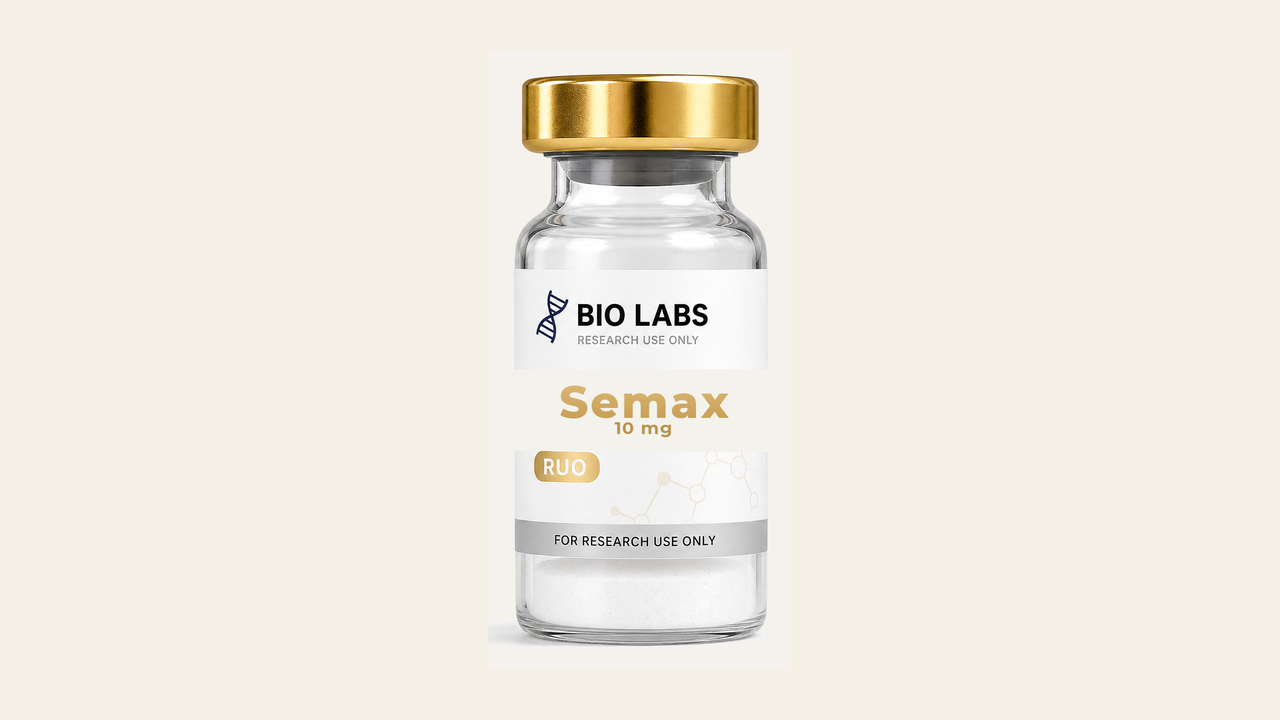
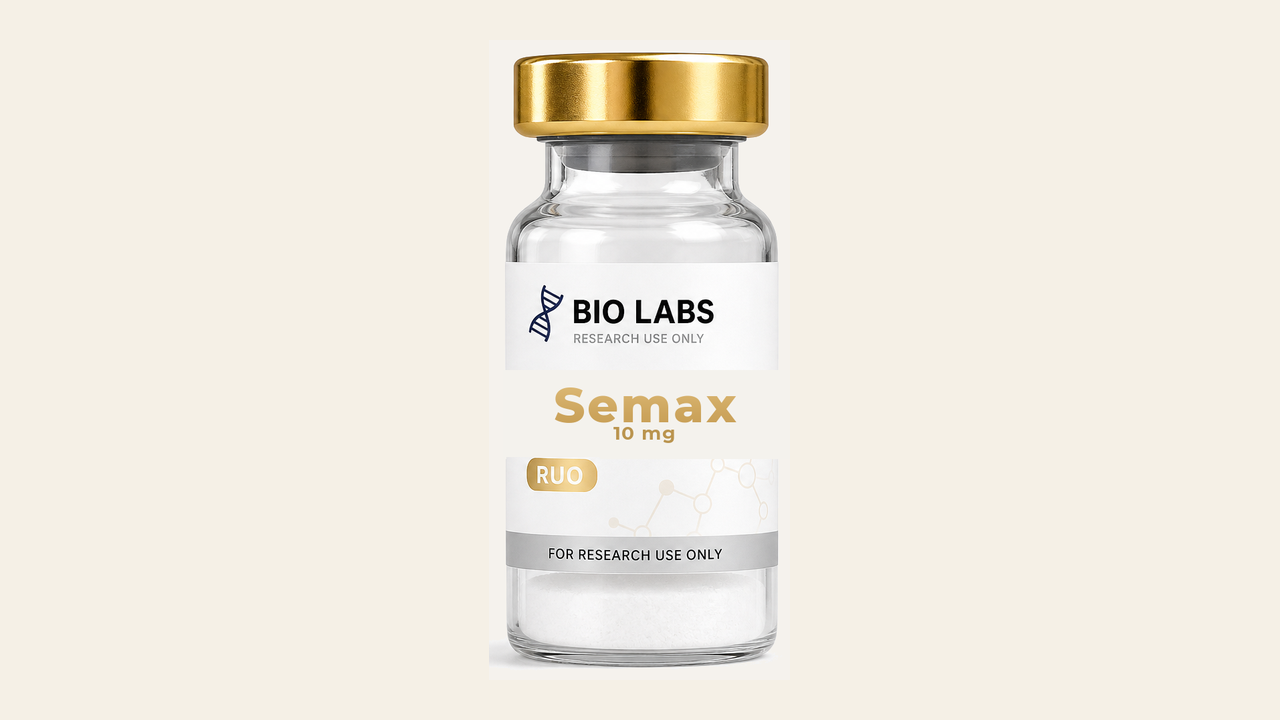
fix: catalog vials — API cache-bust + Semax scale (cream Thymosin/GLOW)
API /products was still serving ?v=155 so hydrate overwrote cream assets
with black/tiny CDN-cached images. Bump hydrate + product-marquee/cart
defaults to ?v=159; reframe Semax larger on cream to match neighbors.

Changed region(s): [[0.375, 0.5194, 0.625, 0.9472], [0.375, 0.0611, 0.625, 0.3972], [0.4062, 0.3972, 0.5625, 0.4889]]

diff --git a/html/index.html b/html/index.html
@@ -69,7 +69,7 @@
 <link rel="preload" as="font" type="font/woff2" href="https://fonts.gstatic.com/s/inter/v20/UcC73FwrK3iLTeHuS_nVMrMxCp50SjIa1ZL7.woff2" crossorigin>
 <link href="https://fonts.googleapis.com/css2?family=Assistant:wght@400;500;600;700&family=Heebo:wght@400;500;600;700&family=Inter:wght@300;400;500;600;700;800&family=Saira:wght@600;700;800&family=Fraunces:opsz,wght@9..144,400;9..144,500;9..144,600&family=Baloo+2:wght@700;800&display=swap" rel="stylesheet">
 <link rel="preload" as="image" href="/media/vial-bpc-157-tb-500-blend.png?v=155" fetchpriority="high">
-<link rel="stylesheet" href="/biolabs_style.css?v=296">
+<link rel="stylesheet" href="/biolabs_style.css?v=297">
 <link rel="stylesheet" href="/auth.css?v=1">
 <script>/* cart qty/remove by index */
 (function(){
@@ -192,14 +192,14 @@ with lot documentation.</h1>
 <article class="product-card"><a class="product-card-media" href="products/curcumin-phytosome.html"><div class="product-card-img"><img src="/media/vial-curcumin-phytosome.png?v=155" alt="Clear glass research vial labeled Curcumin Phytosome with a gold crimp cap" loading="lazy" decoding="async" width="400" height="500"></div></a><div class="product-card-body"><div class="product-card-badge">New</div><a class="product-card-name" href="products/curcumin-phytosome.html">Curcumin Phytosome (Meriva)</a><div class="product-card-strengths"><span class="product-card-mg">500 mg</span></div><p class="product-card-tagline">Polyphenol Research Formulation</p><div class="product-card-row"><div class="product-card-prices"><span class="product-card-price">$109</span><span class="product-card-original">$135</span></div><button type="button" class="product-card-atc" data-name="Curcumin Phytosome (Meriva)" data-price="109" data-img="/media/vial-curcumin-phytosome.png?v=155" data-slug="curcumin-phytosome">Add to inquiry</button></div></div></article>
 <article class="product-card"><a class="product-card-media" href="products/tesamorelin-ipamorelin.html"><div class="product-card-img"><img src="/media/vial-tesamorelin-ipamorelin.png?v=156" alt="Clear glass research vial labeled Tesamorelin / Ipamorelin with a gold crimp cap" loading="lazy" decoding="async" width="400" height="500"></div></a><div class="product-card-body"><div class="product-card-badge product-card-badge-spacer">&nbsp;</div><a class="product-card-name" href="products/tesamorelin-ipamorelin.html">Tesamorelin / Ipamorelin</a><div class="product-card-strengths"><span class="product-card-mg">5 mg</span><span class="product-card-mg">10 mg</span></div><p class="product-card-tagline">GH Pathway Research Duo</p><div class="product-card-row"><div class="product-card-prices"><span class="product-card-price">$119</span><span class="product-card-original">$145</span></div><button type="button" class="product-card-atc" data-name="Tesamorelin / Ipamorelin" data-price="119" data-img="/media/vial-tesamorelin-ipamorelin.png?v=156" data-slug="tesamorelin-ipamorelin">Add to inquiry</button></div></div></article>
 <article class="product-card"><a class="product-card-media" href="products/bpc-157.html"><div class="product-card-img"><img src="/media/vial-bpc-157.png?v=156" alt="BPC-157" loading="lazy" decoding="async" width="400" height="500"></div></a><div class="product-card-body"><div class="product-card-badge product-card-badge-spacer">&nbsp;</div><a class="product-card-name" href="products/bpc-157.html">BPC-157</a><div class="product-card-strengths"><span class="product-card-mg">5 mg</span><span class="product-card-mg">10 mg</span></div><p class="product-card-tagline">Gastric-Derived Repair Peptide</p><div class="product-card-row"><div class="product-card-prices"><span class="product-card-price">$89</span><span class="product-card-original">$109</span></div><button type="button" class="product-card-atc" data-name="BPC-157" data-price="89" data-img="/media/vial-bpc-157.png?v=156" data-slug="bpc-157">Add to inquiry</button></div></div></article>
-<article class="product-card"><a class="product-card-media" href="products/glow-70.html"><div class="product-card-img"><img src="/media/vial-glow-70.png?v=158" alt="GLOW 70" loading="lazy" decoding="async" width="400" height="500"></div></a><div class="product-card-body"><div class="product-card-badge">New</div><a class="product-card-name" href="products/glow-70.html">GLOW 70</a><div class="product-card-strengths"><span class="product-card-mg">70 mg</span></div><p class="product-card-tagline">Skin Signaling Research Blend</p><div class="product-card-row"><div class="product-card-prices"><span class="product-card-price">$139</span><span class="product-card-original">$169</span></div><button type="button" class="product-card-atc" data-name="GLOW 70" data-price="139" data-img="/media/vial-glow-70.png?v=158" data-slug="glow-70">Add to inquiry</button></div></div></article>
+<article class="product-card"><a class="product-card-media" href="products/glow-70.html"><div class="product-card-img"><img src="/media/vial-glow-70.png?v=159" alt="GLOW 70" loading="lazy" decoding="async" width="400" height="500"></div></a><div class="product-card-body"><div class="product-card-badge">New</div><a class="product-card-name" href="products/glow-70.html">GLOW 70</a><div class="product-card-strengths"><span class="product-card-mg">70 mg</span></div><p class="product-card-tagline">Skin Signaling Research Blend</p><div class="product-card-row"><div class="product-card-prices"><span class="product-card-price">$139</span><span class="product-card-original">$169</span></div><button type="button" class="product-card-atc" data-name="GLOW 70" data-price="139" data-img="/media/vial-glow-70.png?v=159" data-slug="glow-70">Add to inquiry</button></div></div></article>
 <article class="product-card"><a class="product-card-media" href="products/epithalon.html"><div class="product-card-img"><img src="/media/vial-epithalon.png?v=155" alt="Clear glass research vial labeled Epithalon with a gold crimp cap" loading="lazy" decoding="async" width="400" height="500"></div></a><div class="product-card-body"><div class="product-card-badge product-card-badge-spacer">&nbsp;</div><a class="product-card-name" href="products/epithalon.html">Epithalon</a><div class="product-card-strengths"><span class="product-card-mg">5 mg</span><span class="product-card-mg">10 mg</span></div><p class="product-card-tagline">Telomerase Research Tetrapeptide</p><div class="product-card-row"><div class="product-card-prices"><span class="product-card-price">$79</span><span class="product-card-original">$99</span></div><button type="button" class="product-card-atc" data-name="Epithalon" data-price="79" data-img="/media/vial-epithalon.png?v=155" data-slug="epithalon">Add to inquiry</button></div></div></article>
 <article class="product-card"><a class="product-card-media" href="products/ghk-cu.html"><div class="product-card-img"><img src="/media/vial-ghk-cu.png?v=155" alt="Clear glass research vial labeled GHK-Cu with a gold crimp cap" loading="lazy" decoding="async" width="400" height="500"></div></a><div class="product-card-body"><div class="product-card-badge product-card-badge-spacer">&nbsp;</div><a class="product-card-name" href="products/ghk-cu.html">GHK-Cu</a><div class="product-card-strengths"><span class="product-card-mg">5 mg</span><span class="product-card-mg">10 mg</span></div><p class="product-card-tagline">Copper-Binding Tripeptide</p><div class="product-card-row"><div class="product-card-prices"><span class="product-card-price">$69</span><span class="product-card-original">$85</span></div><button type="button" class="product-card-atc" data-name="GHK-Cu" data-price="69" data-img="/media/vial-ghk-cu.png?v=155" data-slug="ghk-cu">Add to inquiry</button></div></div></article>
 <article class="product-card"><a class="product-card-media" href="products/mots-c.html"><div class="product-card-img"><img src="/media/vial-mots-c.png?v=155" alt="Clear glass research vial labeled MOTS-c with a gold crimp cap" loading="lazy" decoding="async" width="400" height="500"></div></a><div class="product-card-body"><div class="product-card-badge product-card-badge-spacer">&nbsp;</div><a class="product-card-name" href="products/mots-c.html">MOTS-c</a><div class="product-card-strengths"><span class="product-card-mg">5 mg</span><span class="product-card-mg">10 mg</span></div><p class="product-card-tagline">Mitochondrial Signaling Peptide</p><div class="product-card-row"><div class="product-card-prices"><span class="product-card-price">$95</span><span class="product-card-original">$115</span></div><button type="button" class="product-card-atc" data-name="MOTS-c" data-price="95" data-img="/media/vial-mots-c.png?v=155" data-slug="mots-c">Add to inquiry</button></div></div></article>
 <article class="product-card"><a class="product-card-media" href="products/kpv.html"><div class="product-card-img"><img src="/media/vial-kpv.png?v=155" alt="Clear glass research vial labeled KPV with a gold crimp cap" loading="lazy" decoding="async" width="400" height="500"></div></a><div class="product-card-body"><div class="product-card-badge product-card-badge-spacer">&nbsp;</div><a class="product-card-name" href="products/kpv.html">KPV</a><div class="product-card-strengths"><span class="product-card-mg">5 mg</span><span class="product-card-mg">10 mg</span></div><p class="product-card-tagline">inflammatory-pathway Tripeptide</p><div class="product-card-row"><div class="product-card-prices"><span class="product-card-price">$79</span><span class="product-card-original">$95</span></div><button type="button" class="product-card-atc" data-name="KPV" data-price="79" data-img="/media/vial-kpv.png?v=155" data-slug="kpv">Add to inquiry</button></div></div></article>
-<article class="product-card"><a class="product-card-media" href="products/semax.html"><div class="product-card-img"><img src="/media/vial-semax.png?v=157" alt="Clear glass research vial labeled Semax with a gold crimp cap" loading="lazy" decoding="async" width="400" height="500"></div></a><div class="product-card-body"><div class="product-card-badge product-card-badge-spacer">&nbsp;</div><a class="product-card-name" href="products/semax.html">Semax</a><div class="product-card-strengths"><span class="product-card-mg">5 mg</span><span class="product-card-mg">10 mg</span></div><p class="product-card-tagline">Neuroprotective Research Peptide</p><div class="product-card-row"><div class="product-card-prices"><span class="product-card-price">$89</span><span class="product-card-original">$109</span></div><button type="button" class="product-card-atc" data-name="Semax" data-price="89" data-img="/media/vial-semax.png?v=157" data-slug="semax">Add to inquiry</button></div></div></article>
+<article class="product-card"><a class="product-card-media" href="products/semax.html"><div class="product-card-img"><img src="/media/vial-semax.png?v=159" alt="Clear glass research vial labeled Semax with a gold crimp cap" loading="lazy" decoding="async" width="400" height="500"></div></a><div class="product-card-body"><div class="product-card-badge product-card-badge-spacer">&nbsp;</div><a class="product-card-name" href="products/semax.html">Semax</a><div class="product-card-strengths"><span class="product-card-mg">5 mg</span><span class="product-card-mg">10 mg</span></div><p class="product-card-tagline">Neuroprotective Research Peptide</p><div class="product-card-row"><div class="product-card-prices"><span class="product-card-price">$89</span><span class="product-card-original">$109</span></div><button type="button" class="product-card-atc" data-name="Semax" data-price="89" data-img="/media/vial-semax.png?v=159" data-slug="semax">Add to inquiry</button></div></div></article>
 <article class="product-card"><a class="product-card-media" href="products/kisspeptin-10.html"><div class="product-card-img"><img src="/media/vial-kisspeptin-10.png?v=155" alt="Kisspeptin-10" loading="lazy" decoding="async" width="400" height="500"></div></a><div class="product-card-body"><div class="product-card-badge product-card-badge-spacer">&nbsp;</div><a class="product-card-name" href="products/kisspeptin-10.html">Kisspeptin-10</a><div class="product-card-strengths"><span class="product-card-mg">5 mg</span><span class="product-card-mg">10 mg</span></div><p class="product-card-tagline">endocrine-signaling Peptide</p><div class="product-card-row"><div class="product-card-prices"><span class="product-card-price">$99</span><span class="product-card-original">$119</span></div><button type="button" class="product-card-atc" data-name="Kisspeptin-10" data-price="99" data-img="/media/vial-kisspeptin-10.png?v=155" data-slug="kisspeptin-10">Add to inquiry</button></div></div></article>
-<article class="product-card"><a class="product-card-media" href="products/thymosin-alpha-1.html"><div class="product-card-img"><img src="/media/vial-thymosin-alpha-1.png?v=158" alt="Thymosin Alpha-1" loading="lazy" decoding="async" width="400" height="500"></div></a><div class="product-card-body"><div class="product-card-badge product-card-badge-spacer">&nbsp;</div><a class="product-card-name" href="products/thymosin-alpha-1.html">Thymosin Alpha-1</a><div class="product-card-strengths"><span class="product-card-mg">5 mg</span><span class="product-card-mg">10 mg</span></div><p class="product-card-tagline">Immune-Modulating Peptide</p><div class="product-card-row"><div class="product-card-prices"><span class="product-card-price">$109</span><span class="product-card-original">$135</span></div><button type="button" class="product-card-atc" data-name="Thymosin Alpha-1" data-price="109" data-img="/media/vial-thymosin-alpha-1.png?v=158" data-slug="thymosin-alpha-1">Add to inquiry</button></div></div></article>
+<article class="product-card"><a class="product-card-media" href="products/thymosin-alpha-1.html"><div class="product-card-img"><img src="/media/vial-thymosin-alpha-1.png?v=159" alt="Thymosin Alpha-1" loading="lazy" decoding="async" width="400" height="500"></div></a><div class="product-card-body"><div class="product-card-badge product-card-badge-spacer">&nbsp;</div><a class="product-card-name" href="products/thymosin-alpha-1.html">Thymosin Alpha-1</a><div class="product-card-strengths"><span class="product-card-mg">5 mg</span><span class="product-card-mg">10 mg</span></div><p class="product-card-tagline">Immune-Modulating Peptide</p><div class="product-card-row"><div class="product-card-prices"><span class="product-card-price">$109</span><span class="product-card-original">$135</span></div><button type="button" class="product-card-atc" data-name="Thymosin Alpha-1" data-price="109" data-img="/media/vial-thymosin-alpha-1.png?v=159" data-slug="thymosin-alpha-1">Add to inquiry</button></div></div></article>
 <article class="product-card"><a class="product-card-media" href="products/tb-500.html"><div class="product-card-img"><img src="/media/vial-tb-500.png?v=155" alt="TB-500" loading="lazy" decoding="async" width="400" height="500"></div></a><div class="product-card-body"><div class="product-card-badge product-card-badge-spacer">&nbsp;</div><a class="product-card-name" href="products/tb-500.html">TB-500</a><div class="product-card-strengths"><span class="product-card-mg">5 mg</span><span class="product-card-mg">10 mg</span></div><p class="product-card-tagline">Thymosin Beta-4 Fragment</p><div class="product-card-row"><div class="product-card-prices"><span class="product-card-price">$99</span><span class="product-card-original">$119</span></div><button type="button" class="product-card-atc" data-name="TB-500" data-price="99" data-img="/media/vial-tb-500.png?v=155" data-slug="tb-500">Add to inquiry</button></div></div></article>
 <article class="product-card"><a class="product-card-media" href="products/retatrutide.html"><div class="product-card-img"><img src="/media/vial-retatrutide.png?v=155" alt="Clear glass research vial labeled R3TA with a gold crimp cap" loading="lazy" decoding="async" width="400" height="500"></div></a><div class="product-card-body"><div class="product-card-badge">New</div><a class="product-card-name" href="products/retatrutide.html">R3TA</a><div class="product-card-strengths"><span class="product-card-mg">10 mg</span><span class="product-card-mg">20 mg</span></div><p class="product-card-tagline">Triple Receptor Agonist (Retatrutide)</p><div class="product-card-row"><div class="product-card-prices"><span class="product-card-price">$139</span><span class="product-card-original">$169</span></div><button type="button" class="product-card-atc" data-name="R3TA" data-price="139" data-img="/media/vial-retatrutide.png?v=155" data-slug="retatrutide">Add to inquiry</button></div></div></article>
   </div>
@@ -893,7 +893,8 @@ document.getElementById('cartCount').textContent = String(Math.max(0, cart.reduc
     grid.innerHTML = '';
     list.forEach(function(p) {
       var href = SLUG_MAP[p.slug] || ('products/' + p.slug + '.html');
-      var vial = (p.image_url && String(p.image_url).indexOf('/media/')===0) ? p.image_url : ('/media/vial-' + p.slug + '.png?v=155');
+      var vial = (p.image_url && String(p.image_url).indexOf('/media/')===0) ? String(p.image_url).replace(/\?v=\d+/, '?v=159') : ('/media/vial-' + p.slug + '.png?v=159');
+      if (vial.indexOf('?v=')===-1 && vial.indexOf('/media/')===0) vial += '?v=159';
       var badgeHtml = p.badge
         ? '<div class="product-card-badge">' + escAttr(p.badge) + '</div>'
         : '<div class="product-card-badge product-card-badge-spacer">&nbsp;</div>';

diff --git a/html/cart-vial.js b/html/cart-vial.js
@@ -529,7 +529,7 @@ function productUrl(item){
 function vialImg(item){
   if (item && (item.gift || item.slug === 'research-solvent')) return '/media/research-solvent.png?v=2';
   var slug = productSlug(item);
-  return '/media/vial-'+(slug)+'.png?v=155';
+  return '/media/vial-'+(slug)+'.png?v=159';
 }
 var CART_SUGGEST = [
   {slug:'bpc-157', name:'BPC-157', price:89},
@@ -569,7 +569,7 @@ function addMoreHtml(cart){
     var mgSafe = d ? String(d.mg).replace(/[^0-9A-Za-z. ]/g, '') : '';
     var mgArg = mgSafe ? ',\'' + mgSafe + '\'' : '';
     html += '<div class="cart-addcard">' +
-      '<a href="/products/' + p.slug + '.html"><img src="/media/vial-' + p.slug + '.png?v=155" alt="' + p.name + '" width="84" height="64"></a>' +
+      '<a href="/products/' + p.slug + '.html"><img src="/media/vial-' + p.slug + '.png?v=159" alt="' + p.name + '" width="84" height="64"></a>' +
       '<div class="cart-addcard-name">' + p.name + '</div>' +
       '<div class="cart-addcard-price">' + (mgSafe ? _blrPrettyMg(mgSafe) + ' · ' : '') + '$' + price + '</div>' +
       '<button type="button" class="cart-addcard-btn" onclick="addSuggest(\'' + p.slug + '\',\'' + p.name.replace(/'/g,'') + '\',' + price + mgArg + ')">Add to inquiry</button>' +
@@ -668,7 +668,7 @@ function addSuggest(slug, name, price, mg){
     var c = getCart();
     var ex = c.find(function(i){ return _sameCartLine(i, slug, name, mg); });
     if (ex) { ex.qty += 1; ex.name = _baseCartName(ex.name) || name; if (slug) ex.slug = slug; if (mg && !ex.mg) ex.mg = mg; }
-    else c.push({name:name, price:price, qty:1, slug:slug, mg:(mg || undefined), imageUrl:'/media/vial-'+(slug)+'.png?v=155'});
+    else c.push({name:name, price:price, qty:1, slug:slug, mg:(mg || undefined), imageUrl:'/media/vial-'+(slug)+'.png?v=159'});
     if (typeof saveCart === 'function') {
       try { saveCart(c); } catch (e) { try { saveCart(); } catch(e2){} }
     } else {
@@ -683,7 +683,7 @@ function addSuggest(slug, name, price, mg){
   if (typeof cart !== 'undefined') {
     var ex2 = cart.find(function(i){ return _sameCartLine(i, slug, name, mg); });
     if (ex2) { ex2.qty += 1; ex2.name = _baseCartName(ex2.name) || name; if (slug) ex2.slug = slug; if (mg && !ex2.mg) ex2.mg = mg; }
-    else cart.push({name:name, price:price, qty:1, slug:slug, mg:(mg || undefined), imageUrl:'/media/vial-'+(slug)+'.png?v=155'});
+    else cart.push({name:name, price:price, qty:1, slug:slug, mg:(mg || undefined), imageUrl:'/media/vial-'+(slug)+'.png?v=159'});
     if (typeof saveCart === 'function') saveCart();
     else _writeCartLS(cart);
     if (typeof updateBadge === 'function') updateBadge();

diff --git a/html/product-marquee.js b/html/product-marquee.js
@@ -58,7 +58,7 @@
     return null;
   }
 
-  function vialImg(item){ if(item&&(item.gift||item.slug==='research-solvent')) return '/media/research-solvent.svg'; var slug=productSlug(item); var mg=((item&&item.mg)||'').toString().split(' ').join('').toLowerCase(); if(mg){ return '/media/vial-'+slug+'-'+mg+'.png?v=155'; } return '/media/vial-'+slug+'.png?v=155'; }
+  function vialImg(item){ if(item&&(item.gift||item.slug==='research-solvent')) return '/media/research-solvent.svg'; var slug=productSlug(item); var mg=((item&&item.mg)||'').toString().split(' ').join('').toLowerCase(); if(mg){ return '/media/vial-'+slug+'-'+mg+'.png?v=159'; } return '/media/vial-'+slug+'.png?v=159'; }
 
   /* The page's own addToCart knows nothing about strengths, so the line it just wrote says only "$62".
      Name the strength the card showed; a line that already names one is left alone. */
